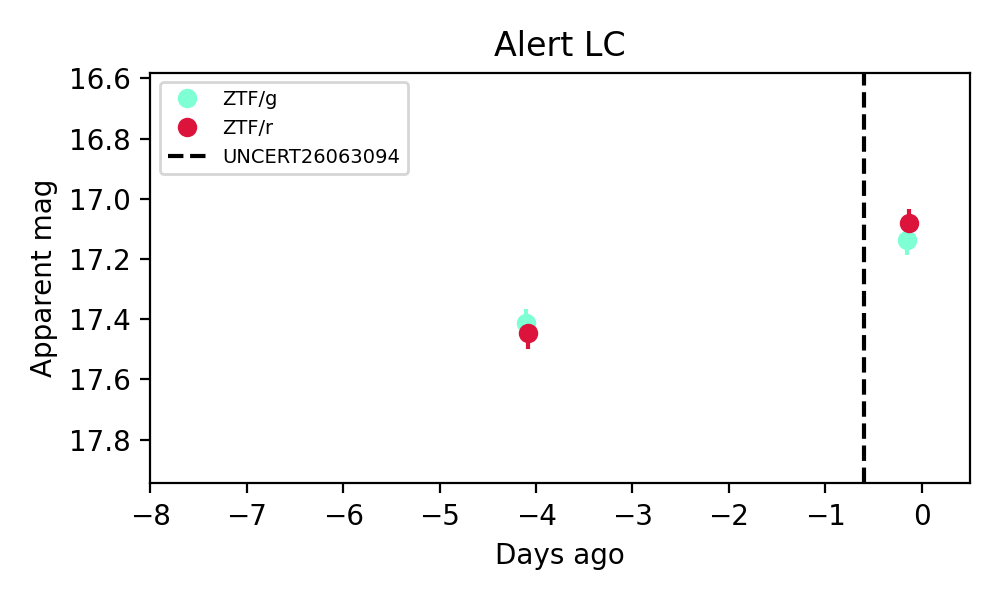
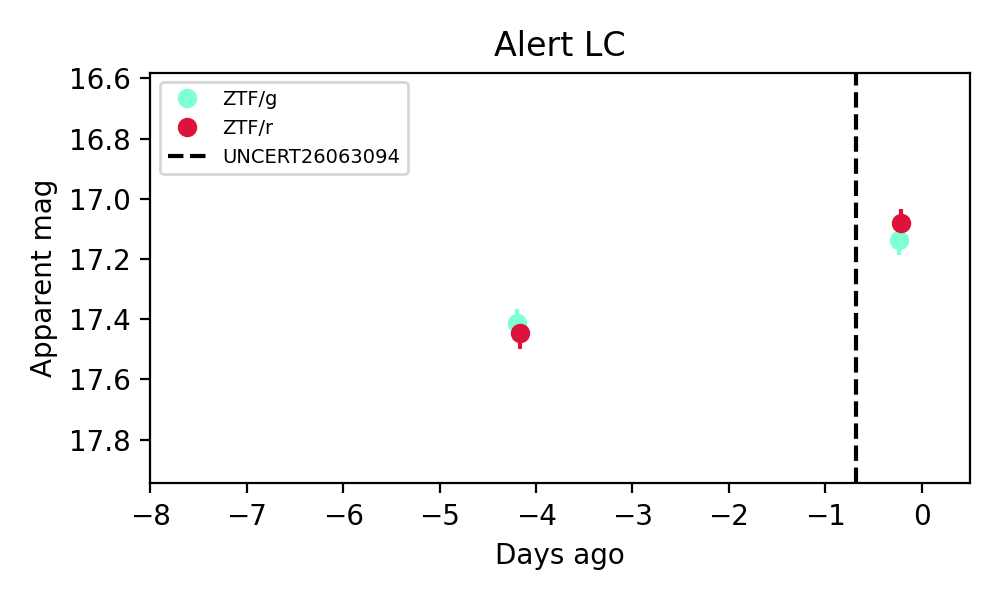
Update HTML from cron job on Wed Jul  1 11:02:33 AM EDT 2026

Changed region(s): [[0.837, 0.12, 0.93, 0.81], [0.496, 0.51, 0.558, 0.57]]

diff --git a/html/20260701_fastcand.html b/html/20260701_fastcand.html
@@ -1,1 +1,1 @@
-<!doctype html><html><head><title>SOURCE MARSHAL</title><style>                  * {                     box-sizing: border-box;                  }                /* Create two equal columns that floats next to each other */                .column {                         float: left;                         width: 50%;                         padding: 10px;                         #height: 220px; /* Should be removed. Only for demonstration */                }                /* Clear floats after the columns */                .row:after {                        content: "";                        display: table;                        clear: both;                }                /* Rounded corner definition */                #rcorners2 {                    border-radius: 15px;                    border: 2px solid #73AD21;                    padding: 15px;                     width: 80%;                }                table, th, td {                    border: 1px solid black;                    border-collapse: collapse;                }                th, td {                    padding: 5px;                }                th {                    text-align: right;                }                .boxed {                    width: 300px;                    border: 3px outset green;                    text-align: center;                    font-size: 20px;                    margin: 10px;                }                 </style></head><body><font size="5" color="green">Candidate List 20260701</font></br><font size="3" color="green">Last night &mdash; ZTF: 1,327 passed basic cuts (18 young) &middot; LSST: 483 passed basic cuts (83 young)</font></br></br><a href=20260630_fastcand.html target="_blank"><font size="3" color="green">Previous Day</font></a>&nbsp;&nbsp;&nbsp;&nbsp;<a href=20260702_fastcand.html target="_blank"><font size="3" color="green">Next Day</font></a>&nbsp;&nbsp;&nbsp;&nbsp;<br><br><font size="4" color="green"><a href="#sec1">Section 1: New Sources (age<1d)</a></font>&nbsp;&nbsp;&nbsp;&nbsp;<font size="4" color="green"><a href="#sec2">Section 2: Old (1-5d) sources observed last night</a></font></br><font size="1" color="white">placeholder</font></br><hr style="width:50%;text-align:left;margin-left:0"><br><div id="sec1"></div><div class="boxed">Section 1: New Afterglow/FBOT Cands Last Night (1)</div><div id="170609066628874437"></div>1. <a href="#170609066628874437"><b><font size="3">[LSST] 170609066628874437 (Afterglow?)</font></b></a>&nbsp;&nbsp;&nbsp;&nbsp;<a href=#top>[Back to Top]</a></br>&nbsp;&nbsp;&nbsp;&nbsp;[<a href="https://fritz.science/alerts/ztf/170609066628874437" target="_blank">Fritz Alert</a>]&nbsp;&nbsp;&nbsp;&nbsp;[<a href="https://fritz.science/source/170609066628874437" target="_blank">Fritz Source</a>]&nbsp;&nbsp;&nbsp;&nbsp;[<a href="https://lasair.lsst.ac.uk/objects/170609066628874437/" target="_blank">Lasair</a>]</br>RA, Dec: 215.76838, -16.8297&nbsp;&nbsp;&nbsp;&nbsp;14h23m4.41s, -16d-49m-46.91s</br>Galactic (l, b): 332.38924, 40.74232&nbsp;&nbsp;&nbsp;&nbsp;<b>WARNING:</b> -2.47 deg from ecliptic plane&nbsp;&nbsp;&nbsp;&nbsp;ext(g-r) = 0.083</br></br><img src="./170609066628874437_triplet.png" height="200"><a href = http://ps1images.stsci.edu/cgi-bin/ps1cutouts?pos=215.768380-16.829697&filter=color&filter=g&filter=r&filter=i&filter=z&filter=y&filetypes=stack&auxiliary=data&size=240&output_size=240&verbose=0&autoscale=99.500000><img src="./170609066628874437_ps1.png" height="200"></a><a href = http://legacysurvey.org/viewer?ra=215.768380&dec=-16.829697&zoom=16&layer=ls-dr10><img src="170609066628874437_ls.png" height="200"></a></br><br><br>TESS: Sectors [ 91 115]<br><br><br><br><br>PS1: 0 sources in 3 arcsec</br><br><b>LegacySurvey: 1 sources in 3 arcsec</b>&nbsp;&nbsp;&nbsp;&nbsp;Closest: d = 0.06 arcsec, 146.9 deg (east of north)</br>&nbsp;&nbsp;&nbsp;&nbsp;photoz=0.19 (68&#37; bounds 0.11, 0.28),                         type=DEV&nbsp;&nbsp;&nbsp;&nbsp;<b>peak abs mag = -17.39 (68&#37; bounds -16.13, -18.41)</b><br><img src="170609066628874437_alert_lc.png" height="300"><br><br>Rise Rate:<br><br>Fade Rate:<br>i: 13.3 mag/day <br><br><br><br><br><br><div id="sec2"></div><div class="boxed">Section 2: Older Sources Observed Last Night (2)</div><div id="ZTF26abegssi"></div>0. <a href="#ZTF26abegqcy"><b><font size="3">[ZTF] ZTF26abegqcy (FBOT?)</font></b></a>&nbsp;&nbsp;&nbsp;&nbsp;<a href=#top>[Back to Top]</a>&nbsp;&nbsp;&nbsp;&nbsp;<a href=./html/ZTF26abegqcy_announcement.txt>[Share]</a>&nbsp;&nbsp;&nbsp;&nbsp;<a href=./html/ZTF26abegqcy_swifttoo.txt>[Trigger Swift]</a></br>&nbsp;&nbsp;&nbsp;&nbsp;[<a href="https://fritz.science/alerts/ztf/ZTF26abegqcy" target="_blank">Fritz Alert</a>]&nbsp;&nbsp;&nbsp;&nbsp;[<a href="https://fritz.science/source/ZTF26abegqcy" target="_blank">Fritz Source</a>]&nbsp;&nbsp;&nbsp;&nbsp;[<a href="https://lasair-ztf.lsst.ac.uk/objects/ZTF26abegqcy/" target="_blank">Lasair</a>]</br>RA, Dec: 346.13584, 42.05359&nbsp;&nbsp;&nbsp;&nbsp;23h 4m32.60s, 42d 3m12.92s</br>Galactic (l, b): 102.54682, -16.54791&nbsp;&nbsp;&nbsp;&nbsp;ext(g-r) = 0.164</br></br><img src="./ZTF26abegqcy_triplet.png" height="200"><a href = http://ps1images.stsci.edu/cgi-bin/ps1cutouts?pos=346.135843[phone redacted]&filter=color&filter=g&filter=r&filter=i&filter=z&filter=y&filetypes=stack&auxiliary=data&size=240&output_size=240&verbose=0&autoscale=99.500000><img src="./ZTF26abegqcy_ps1.png" height="200"></a><a href = http://legacysurvey.org/viewer?ra=346.135843&dec=[phone redacted]&zoom=16&layer=ls-dr10><img src="ZTF26abegqcy_ls.png" height="200"></a></br><br><br>TESS: Sectors [16 56 57 83 84]<br><br><br><br><br><b>PS1: 1 source in 3 arcsec</b>&nbsp;&nbsp;&nbsp;&nbsp;Closest: d = 3.30 arcsec&nbsp;&nbsp;&nbsp;&nbsp;photoz=0.04+/-0.00&nbsp;&nbsp;&nbsp;&nbsp;<b>peak abs mag = -19.71</b><br>LegacySurvey: 0 sources in 3 arcsec</br><br><img src="ZTF26abegqcy_alert_lc.png" height="300"><br>Extinction-corrected gr color:<br>From alerts: -0.11 +/- 0.07 mag<br><br>Rise Rate:<br>g: 0.86 mag/day <br>r: 0.83 mag/day <br><br>Fade Rate:<br><br><br><div id="ZTF26abehfva"></div>1. <a href="#170604676796907608"><b><font size="3">[LSST] 170604676796907608 (Afterglow?)</font></b></a>&nbsp;&nbsp;&nbsp;&nbsp;<a href=#top>[Back to Top]</a></br>&nbsp;&nbsp;&nbsp;&nbsp;[<a href="https://fritz.science/alerts/ztf/170604676796907608" target="_blank">Fritz Alert</a>]&nbsp;&nbsp;&nbsp;&nbsp;[<a href="https://fritz.science/source/170604676796907608" target="_blank">Fritz Source</a>]&nbsp;&nbsp;&nbsp;&nbsp;[<a href="https://lasair.lsst.ac.uk/objects/170604676796907608/" target="_blank">Lasair</a>]</br>RA, Dec: 217.11003, -15.03278&nbsp;&nbsp;&nbsp;&nbsp;14h28m26.41s, -15d-1m-58.01s</br>Galactic (l, b): 335.03159, 41.71415&nbsp;&nbsp;&nbsp;&nbsp;<b>WARNING:</b> -0.35 deg from ecliptic plane&nbsp;&nbsp;&nbsp;&nbsp;ext(g-r) = 0.092</br></br><img src="./170604676796907608_triplet.png" height="200"><a href = http://ps1images.stsci.edu/cgi-bin/ps1cutouts?pos=217.110026-15.032779&filter=color&filter=g&filter=r&filter=i&filter=z&filter=y&filetypes=stack&auxiliary=data&size=240&output_size=240&verbose=0&autoscale=99.500000><img src="./170604676796907608_ps1.png" height="200"></a><a href = http://legacysurvey.org/viewer?ra=217.110026&dec=-15.032779&zoom=16&layer=ls-dr10><img src="170604676796907608_ls.png" height="200"></a></br><br><br>TESS: Sectors 91<br><br><br><br><br>PS1: 0 sources in 3 arcsec</br><br><b>LegacySurvey: 1 sources in 3 arcsec</b>&nbsp;&nbsp;&nbsp;&nbsp;Closest: d = 0.05 arcsec, 104.2 deg (east of north)</br>&nbsp;&nbsp;&nbsp;&nbsp;photoz=0.21 (68&#37; bounds 0.2, 0.23),                         type=REX&nbsp;&nbsp;&nbsp;&nbsp;<b>peak abs mag = -18.59 (68&#37; bounds -18.43, -18.75)</b><br><img src="170604676796907608_alert_lc.png" height="300"><br><br>Rise Rate:<br><br>Fade Rate:<br>i: 0.2 mag/day <br><br><br><br>
+<!doctype html><html><head><title>SOURCE MARSHAL</title><style>                  * {                     box-sizing: border-box;                  }                /* Create two equal columns that floats next to each other */                .column {                         float: left;                         width: 50%;                         padding: 10px;                         #height: 220px; /* Should be removed. Only for demonstration */                }                /* Clear floats after the columns */                .row:after {                        content: "";                        display: table;                        clear: both;                }                /* Rounded corner definition */                #rcorners2 {                    border-radius: 15px;                    border: 2px solid #73AD21;                    padding: 15px;                     width: 80%;                }                table, th, td {                    border: 1px solid black;                    border-collapse: collapse;                }                th, td {                    padding: 5px;                }                th {                    text-align: right;                }                .boxed {                    width: 300px;                    border: 3px outset green;                    text-align: center;                    font-size: 20px;                    margin: 10px;                }                 </style></head><body><font size="5" color="green">Candidate List 20260701</font></br><font size="3" color="green">Last night &mdash; ZTF: 1,338 passed basic cuts (18 young) &middot; LSST: 483 passed basic cuts (83 young)</font></br></br><a href=20260630_fastcand.html target="_blank"><font size="3" color="green">Previous Day</font></a>&nbsp;&nbsp;&nbsp;&nbsp;<a href=20260702_fastcand.html target="_blank"><font size="3" color="green">Next Day</font></a>&nbsp;&nbsp;&nbsp;&nbsp;<br><br><font size="4" color="green"><a href="#sec1">Section 1: New Sources (age<1d)</a></font>&nbsp;&nbsp;&nbsp;&nbsp;<font size="4" color="green"><a href="#sec2">Section 2: Old (1-5d) sources observed last night</a></font></br><font size="1" color="white">placeholder</font></br><hr style="width:50%;text-align:left;margin-left:0"><br><div id="sec1"></div><div class="boxed">Section 1: New Afterglow/FBOT Cands Last Night (1)</div><div id="170609066628874437"></div>1. <a href="#170609066628874437"><b><font size="3">[LSST] 170609066628874437 (Afterglow?)</font></b></a>&nbsp;&nbsp;&nbsp;&nbsp;<a href=#top>[Back to Top]</a></br>&nbsp;&nbsp;&nbsp;&nbsp;[<a href="https://fritz.science/alerts/ztf/170609066628874437" target="_blank">Fritz Alert</a>]&nbsp;&nbsp;&nbsp;&nbsp;[<a href="https://fritz.science/source/170609066628874437" target="_blank">Fritz Source</a>]&nbsp;&nbsp;&nbsp;&nbsp;[<a href="https://lasair.lsst.ac.uk/objects/170609066628874437/" target="_blank">Lasair</a>]</br>RA, Dec: 215.76838, -16.8297&nbsp;&nbsp;&nbsp;&nbsp;14h23m4.41s, -16d-49m-46.91s</br>Galactic (l, b): 332.38924, 40.74232&nbsp;&nbsp;&nbsp;&nbsp;<b>WARNING:</b> -2.47 deg from ecliptic plane&nbsp;&nbsp;&nbsp;&nbsp;ext(g-r) = 0.083</br></br><img src="./170609066628874437_triplet.png" height="200"><a href = http://ps1images.stsci.edu/cgi-bin/ps1cutouts?pos=215.768380-16.829697&filter=color&filter=g&filter=r&filter=i&filter=z&filter=y&filetypes=stack&auxiliary=data&size=240&output_size=240&verbose=0&autoscale=99.500000><img src="./170609066628874437_ps1.png" height="200"></a><a href = http://legacysurvey.org/viewer?ra=215.768380&dec=-16.829697&zoom=16&layer=ls-dr10><img src="170609066628874437_ls.png" height="200"></a></br><br><br>TESS: Sectors [ 91 115]<br><br><br><br><br>PS1: 0 sources in 3 arcsec</br><br><b>LegacySurvey: 1 sources in 3 arcsec</b>&nbsp;&nbsp;&nbsp;&nbsp;Closest: d = 0.06 arcsec, 146.9 deg (east of north)</br>&nbsp;&nbsp;&nbsp;&nbsp;photoz=0.19 (68&#37; bounds 0.11, 0.28),                         type=DEV&nbsp;&nbsp;&nbsp;&nbsp;<b>peak abs mag = -17.39 (68&#37; bounds -16.13, -18.41)</b><br><img src="170609066628874437_alert_lc.png" height="300"><br><br>Rise Rate:<br><br>Fade Rate:<br>i: 13.3 mag/day <br><br><br><br><br><br><div id="sec2"></div><div class="boxed">Section 2: Older Sources Observed Last Night (2)</div><div id="ZTF26abegssi"></div>0. <a href="#ZTF26abegqcy"><b><font size="3">[ZTF] ZTF26abegqcy (FBOT?)</font></b></a>&nbsp;&nbsp;&nbsp;&nbsp;<a href=#top>[Back to Top]</a>&nbsp;&nbsp;&nbsp;&nbsp;<a href=./html/ZTF26abegqcy_announcement.txt>[Share]</a>&nbsp;&nbsp;&nbsp;&nbsp;<a href=./html/ZTF26abegqcy_swifttoo.txt>[Trigger Swift]</a></br>&nbsp;&nbsp;&nbsp;&nbsp;[<a href="https://fritz.science/alerts/ztf/ZTF26abegqcy" target="_blank">Fritz Alert</a>]&nbsp;&nbsp;&nbsp;&nbsp;[<a href="https://fritz.science/source/ZTF26abegqcy" target="_blank">Fritz Source</a>]&nbsp;&nbsp;&nbsp;&nbsp;[<a href="https://lasair-ztf.lsst.ac.uk/objects/ZTF26abegqcy/" target="_blank">Lasair</a>]</br>RA, Dec: 346.13584, 42.05359&nbsp;&nbsp;&nbsp;&nbsp;23h 4m32.60s, 42d 3m12.92s</br>Galactic (l, b): 102.54682, -16.54791&nbsp;&nbsp;&nbsp;&nbsp;ext(g-r) = 0.164</br></br><img src="./ZTF26abegqcy_triplet.png" height="200"><a href = http://ps1images.stsci.edu/cgi-bin/ps1cutouts?pos=346.135843[phone redacted]&filter=color&filter=g&filter=r&filter=i&filter=z&filter=y&filetypes=stack&auxiliary=data&size=240&output_size=240&verbose=0&autoscale=99.500000><img src="./ZTF26abegqcy_ps1.png" height="200"></a><a href = http://legacysurvey.org/viewer?ra=346.135843&dec=[phone redacted]&zoom=16&layer=ls-dr10><img src="ZTF26abegqcy_ls.png" height="200"></a></br><br><br>TESS: Sectors [16 56 57 83 84]<br><br><br><br><br><b>PS1: 1 source in 3 arcsec</b>&nbsp;&nbsp;&nbsp;&nbsp;Closest: d = 3.30 arcsec&nbsp;&nbsp;&nbsp;&nbsp;photoz=0.04+/-0.00&nbsp;&nbsp;&nbsp;&nbsp;<b>peak abs mag = -19.71</b><br>LegacySurvey: 0 sources in 3 arcsec</br><br><img src="ZTF26abegqcy_alert_lc.png" height="300"><br>Extinction-corrected gr color:<br>From alerts: -0.11 +/- 0.07 mag<br><br>Rise Rate:<br>g: 0.86 mag/day <br>r: 0.83 mag/day <br><br>Fade Rate:<br><br><br><div id="ZTF26abehfva"></div>1. <a href="#170604676796907608"><b><font size="3">[LSST] 170604676796907608 (Afterglow?)</font></b></a>&nbsp;&nbsp;&nbsp;&nbsp;<a href=#top>[Back to Top]</a></br>&nbsp;&nbsp;&nbsp;&nbsp;[<a href="https://fritz.science/alerts/ztf/170604676796907608" target="_blank">Fritz Alert</a>]&nbsp;&nbsp;&nbsp;&nbsp;[<a href="https://fritz.science/source/170604676796907608" target="_blank">Fritz Source</a>]&nbsp;&nbsp;&nbsp;&nbsp;[<a href="https://lasair.lsst.ac.uk/objects/170604676796907608/" target="_blank">Lasair</a>]</br>RA, Dec: 217.11003, -15.03278&nbsp;&nbsp;&nbsp;&nbsp;14h28m26.41s, -15d-1m-58.01s</br>Galactic (l, b): 335.03159, 41.71415&nbsp;&nbsp;&nbsp;&nbsp;<b>WARNING:</b> -0.35 deg from ecliptic plane&nbsp;&nbsp;&nbsp;&nbsp;ext(g-r) = 0.092</br></br><img src="./170604676796907608_triplet.png" height="200"><a href = http://ps1images.stsci.edu/cgi-bin/ps1cutouts?pos=217.110026-15.032779&filter=color&filter=g&filter=r&filter=i&filter=z&filter=y&filetypes=stack&auxiliary=data&size=240&output_size=240&verbose=0&autoscale=99.500000><img src="./170604676796907608_ps1.png" height="200"></a><a href = http://legacysurvey.org/viewer?ra=217.110026&dec=-15.032779&zoom=16&layer=ls-dr10><img src="170604676796907608_ls.png" height="200"></a></br><br><br>TESS: Sectors 91<br><br><br><br><br>PS1: 0 sources in 3 arcsec</br><br><b>LegacySurvey: 1 sources in 3 arcsec</b>&nbsp;&nbsp;&nbsp;&nbsp;Closest: d = 0.05 arcsec, 104.2 deg (east of north)</br>&nbsp;&nbsp;&nbsp;&nbsp;photoz=0.21 (68&#37; bounds 0.2, 0.23),                         type=REX&nbsp;&nbsp;&nbsp;&nbsp;<b>peak abs mag = -18.59 (68&#37; bounds -18.43, -18.75)</b><br><img src="170604676796907608_alert_lc.png" height="300"><br><br>Rise Rate:<br><br>Fade Rate:<br>i: 0.2 mag/day <br><br><br><br>